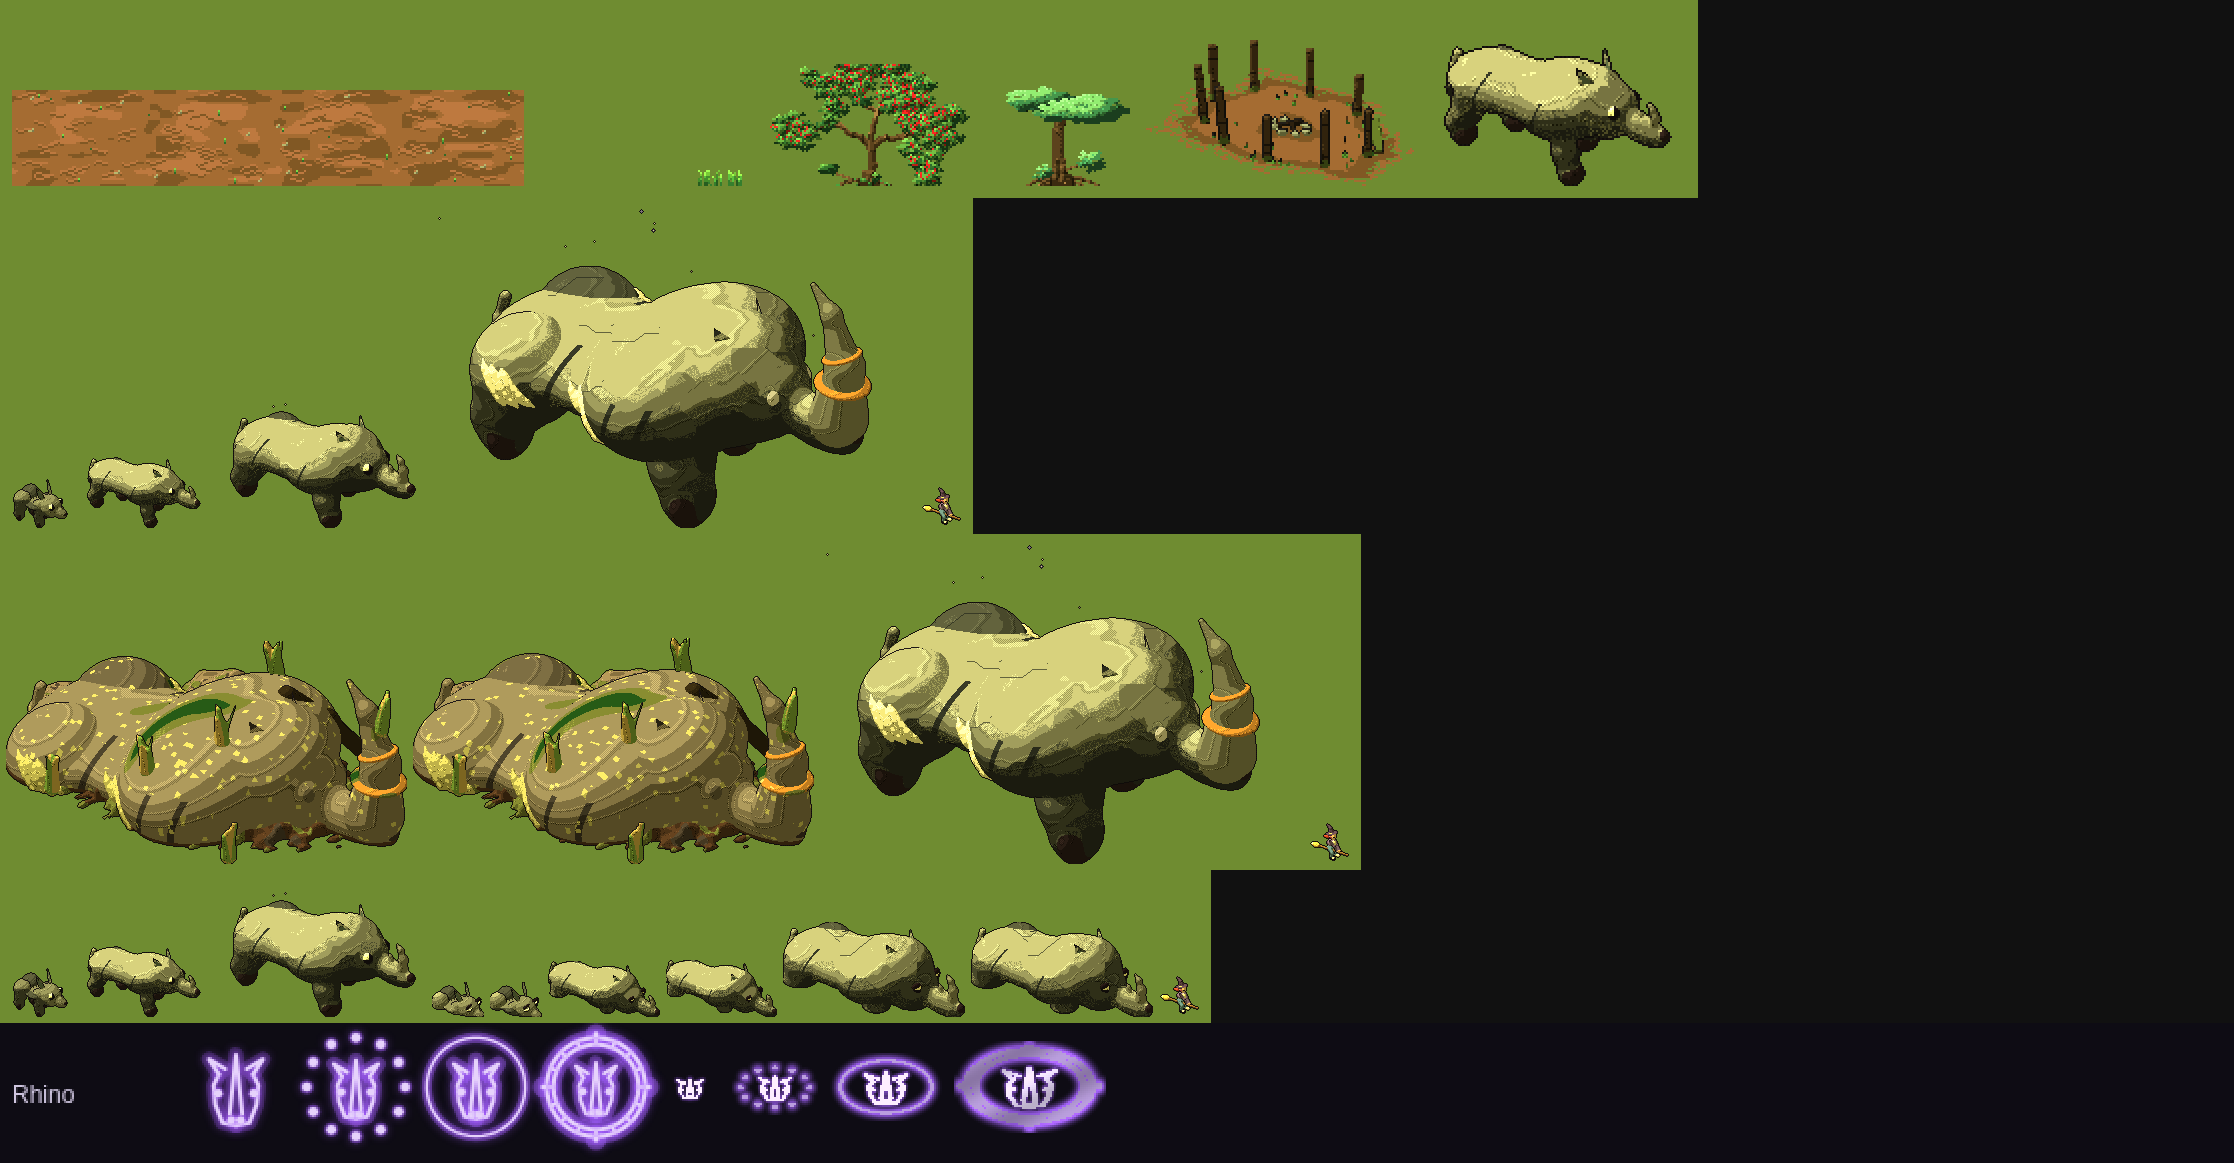
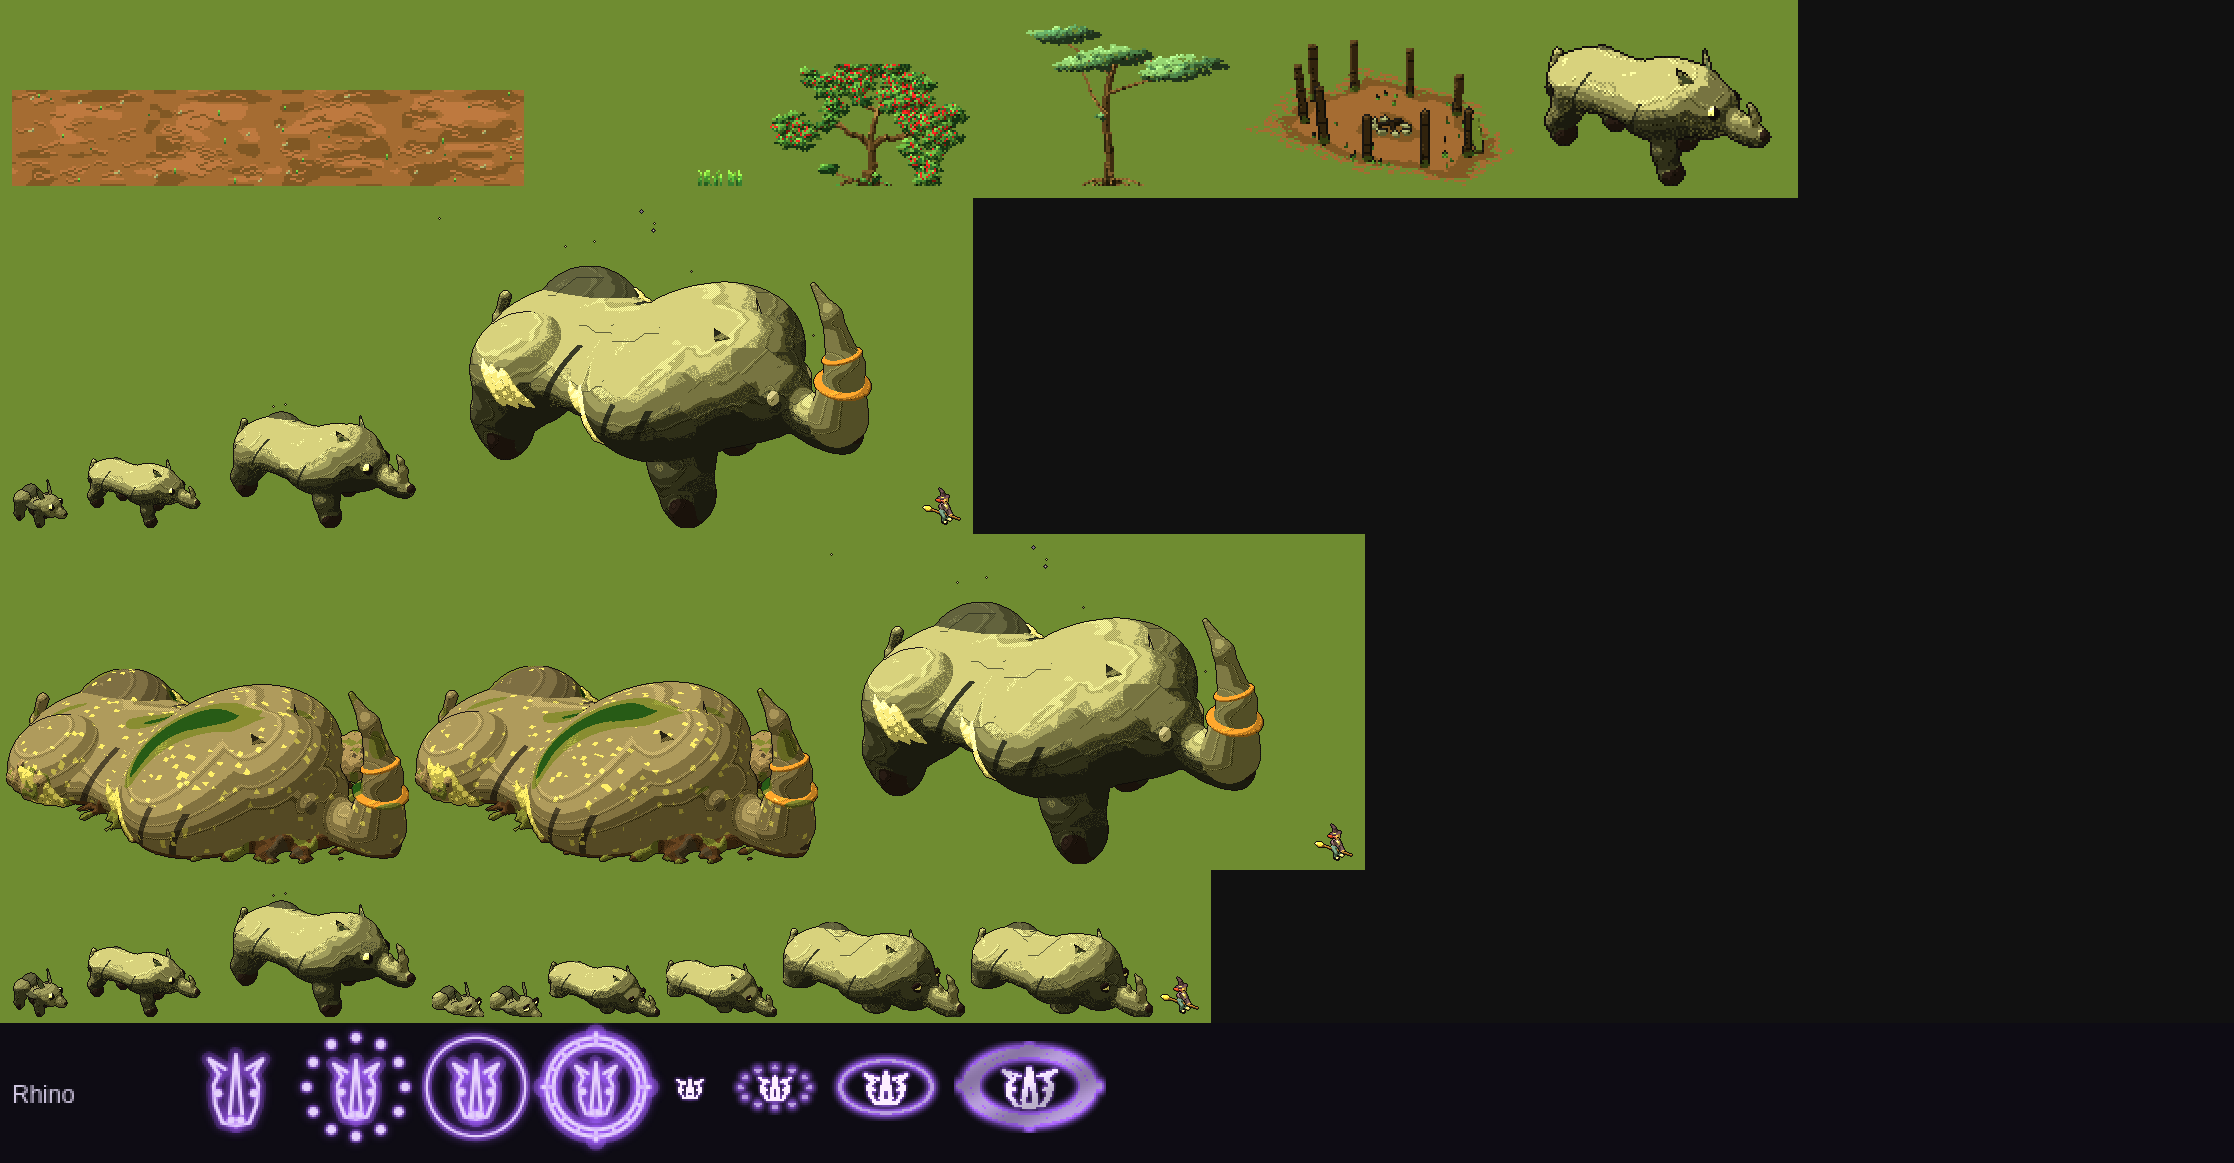
Sleeping legend: no grass stakes or roots poking out of it (they read as pegs), moss instead; the bushveld's acacias are the umbrella acacia
Claude-Session: https://claude.ai/code/session_01Bjkncrw3UwUjcmr8Y3vdKy

diff --git a/tools/art-lab/dist/witch-art-lab.html b/tools/art-lab/dist/witch-art-lab.html
@@ -8544,9 +8544,9 @@ const PLAINS = {
 // plains, it is close and thorny: you come on a rhino before you see it.
 const BUSHVELD = {
   id: "bushveld", name: "Bushveld", creature: "rhino", by: "recipe", leaf: .22, floor: ["sand", .05, .5, .45],
-  text: { floor: "red earth and trampled dry grass", wall: "walls of thorn scrub", small: "thorn bushes and dry grass clumps", big: "thorn trees in clumps, a few flat-topped acacias", set: "a ring of old boma posts round a cold hearth" },
+  text: { floor: "red earth and trampled dry grass", wall: "walls of thorn scrub", small: "thorn bushes and dry grass clumps", big: "thorn trees in clumps, a few umbrella acacias", set: "a ring of old boma posts round a cold hearth" },
   wall: [["bush", {}]], small: [["bush", { small: true }], ["grass", { h: 1.2 }]],
-  big: [["tree", { type: "hawthorn", scale: 1.3 }], ["tree", { type: "flat", minor: true, scale: 1.2 }]],
+  big: [["tree", { type: "hawthorn", scale: 1.3 }], ["tree", { type: "acacia", minor: true, scale: 1.1 }]],
   ponds: true, pathKinds: ["track"],
   setPiece: ["ring", "a ring of old boma posts round a cold hearth", 1, { seed: 5, member: "post", centre: "fire", embers: 0 }],
   layout: {
@@ -8555,7 +8555,7 @@ const BUSHVELD = {
     terrain: ["rises", "hollows"], decor: { rate: .2, ruins: .15, rocks: .45, freak: .1, lake: .2, modern: .1 },
     feel: "Close, thorny bush on red earth, clumps of thorn trees round small open patches and a churned mud wallow; hot, dusty, and something heavy breathing just out of sight.",
   },
-  flora: { species: [["hawthorn", .55], ["flat", .3], ["elder", .15]], palette: { sat: .75, val: .85 } },
+  flora: { species: [["hawthorn", .55], ["acacia", .3], ["elder", .15]], palette: { sat: .75, val: .85 } },
   settings: { treeDensity: .5, groundCover: { density: .7, kinds: ["blades", "grass"] } },
 };
 
@@ -12069,7 +12069,7 @@ const LEGEND_POSES = {
   armadillo: { ground: .2, droop: .4, drop: [], over: { moss: .1, lichen: .25, ferns: 0, grass: 3, mushrooms: 0, roots: 1, stones: 4 } }, // the scrub wash's armadillo (an area recipe's): its shell sunk in cracked clay like a boulder
   meerkat: { sink: .55, droop: 1, drop: [3], over: { moss: .1, lichen: .2, ferns: 0, grass: 3, mushrooms: 0, roots: 1, stones: 5 } }, // the warren's meerkat (an area recipe's): sunk in red sand, stones and dry grass over it
   newt: { sink: .6, droop: 1, drop: [60, 61], over: { moss: .3, lichen: .08, ferns: 1, grass: 3, mushrooms: 1, roots: 1, stones: 2 } }, // the fen's newt (an area recipe's): sunk in peat, sedge over it
-  rhino: { sink: .45, droop: .8, drop: [], over: { moss: .35, lichen: .05, ferns: 0, grass: 6, mushrooms: 0, roots: 1, stones: 4 } }, // the bushveld's rhino (an area recipe's): sunk to its flanks in red earth like a great grey boulder, its horn standing out of the dry grass
+  rhino: { sink: .45, droop: .8, drop: [], over: { moss: .45, lichen: .05, ferns: 0, grass: 0, mushrooms: 0, roots: 0, stones: 4 } }, // the bushveld's rhino (an area recipe's): sunk to its flanks in red earth like a great grey boulder, its horn standing out of the earth
   heron: { ground: .68, droop: 0, fold: 1, drop: [95, 96, 97, 98, 99, 100, 101], over: { moss: .35, lichen: .1, ferns: 1, grass: 4, mushrooms: 1, roots: 2, stones: 2, nest: true } }, // the heronry's heron (an area recipe's): folded down in the reeds, its neck laid along its back, a nest of sticks on it
   cheetah: { sink: .42, droop: 1, drop: [70, 71], over: { moss: .06, lichen: .12, ferns: 0, grass: 4, mushrooms: 0, roots: 1, stones: 3 } }, // the plains' cheetah (an area recipe's): stretched long in the short grass, its spots gone to lichen
   lion: { sink: .4, droop: 1, drop: [70, 71], over: { moss: .1, lichen: .14, ferns: 0, grass: 4, mushrooms: 0, roots: 1, stones: 4 } }, // the savanna's lion (an area recipe's): lying like a kopje in the long grass, its mane gone to dry grass and lichen

diff --git a/art/legends.js b/art/legends.js
@@ -51,7 +51,7 @@ export const LEGEND_POSES = {
   armadillo: { ground: .2, droop: .4, drop: [], over: { moss: .1, lichen: .25, ferns: 0, grass: 3, mushrooms: 0, roots: 1, stones: 4 } }, // the scrub wash's armadillo (an area recipe's): its shell sunk in cracked clay like a boulder
   meerkat: { sink: .55, droop: 1, drop: [3], over: { moss: .1, lichen: .2, ferns: 0, grass: 3, mushrooms: 0, roots: 1, stones: 5 } }, // the warren's meerkat (an area recipe's): sunk in red sand, stones and dry grass over it
   newt: { sink: .6, droop: 1, drop: [60, 61], over: { moss: .3, lichen: .08, ferns: 1, grass: 3, mushrooms: 1, roots: 1, stones: 2 } }, // the fen's newt (an area recipe's): sunk in peat, sedge over it
-  rhino: { sink: .45, droop: .8, drop: [], over: { moss: .35, lichen: .05, ferns: 0, grass: 6, mushrooms: 0, roots: 1, stones: 4 } }, // the bushveld's rhino (an area recipe's): sunk to its flanks in red earth like a great grey boulder, its horn standing out of the dry grass
+  rhino: { sink: .45, droop: .8, drop: [], over: { moss: .45, lichen: .05, ferns: 0, grass: 0, mushrooms: 0, roots: 0, stones: 4 } }, // the bushveld's rhino (an area recipe's): sunk to its flanks in red earth like a great grey boulder, its horn standing out of the earth
   heron: { ground: .68, droop: 0, fold: 1, drop: [95, 96, 97, 98, 99, 100, 101], over: { moss: .35, lichen: .1, ferns: 1, grass: 4, mushrooms: 1, roots: 2, stones: 2, nest: true } }, // the heronry's heron (an area recipe's): folded down in the reeds, its neck laid along its back, a nest of sticks on it
   cheetah: { sink: .42, droop: 1, drop: [70, 71], over: { moss: .06, lichen: .12, ferns: 0, grass: 4, mushrooms: 0, roots: 1, stones: 3 } }, // the plains' cheetah (an area recipe's): stretched long in the short grass, its spots gone to lichen
   lion: { sink: .4, droop: 1, drop: [70, 71], over: { moss: .1, lichen: .14, ferns: 0, grass: 4, mushrooms: 0, roots: 1, stones: 4 } }, // the savanna's lion (an area recipe's): lying like a kopje in the long grass, its mane gone to dry grass and lichen

diff --git a/art/recipes/bushveld.js b/art/recipes/bushveld.js
@@ -3,9 +3,9 @@
 // plains, it is close and thorny: you come on a rhino before you see it.
 export const BUSHVELD = {
   id: "bushveld", name: "Bushveld", creature: "rhino", by: "recipe", leaf: .22, floor: ["sand", .05, .5, .45],
-  text: { floor: "red earth and trampled dry grass", wall: "walls of thorn scrub", small: "thorn bushes and dry grass clumps", big: "thorn trees in clumps, a few flat-topped acacias", set: "a ring of old boma posts round a cold hearth" },
+  text: { floor: "red earth and trampled dry grass", wall: "walls of thorn scrub", small: "thorn bushes and dry grass clumps", big: "thorn trees in clumps, a few umbrella acacias", set: "a ring of old boma posts round a cold hearth" },
   wall: [["bush", {}]], small: [["bush", { small: true }], ["grass", { h: 1.2 }]],
-  big: [["tree", { type: "hawthorn", scale: 1.3 }], ["tree", { type: "flat", minor: true, scale: 1.2 }]],
+  big: [["tree", { type: "hawthorn", scale: 1.3 }], ["tree", { type: "acacia", minor: true, scale: 1.1 }]],
   ponds: true, pathKinds: ["track"],
   setPiece: ["ring", "a ring of old boma posts round a cold hearth", 1, { seed: 5, member: "post", centre: "fire", embers: 0 }],
   layout: {
@@ -14,6 +14,6 @@ export const BUSHVELD = {
     terrain: ["rises", "hollows"], decor: { rate: .2, ruins: .15, rocks: .45, freak: .1, lake: .2, modern: .1 },
     feel: "Close, thorny bush on red earth, clumps of thorn trees round small open patches and a churned mud wallow; hot, dusty, and something heavy breathing just out of sight.",
   },
-  flora: { species: [["hawthorn", .55], ["flat", .3], ["elder", .15]], palette: { sat: .75, val: .85 } },
+  flora: { species: [["hawthorn", .55], ["acacia", .3], ["elder", .15]], palette: { sat: .75, val: .85 } },
   settings: { treeDensity: .5, groundCover: { density: .7, kinds: ["blades", "grass"] } },
 };
